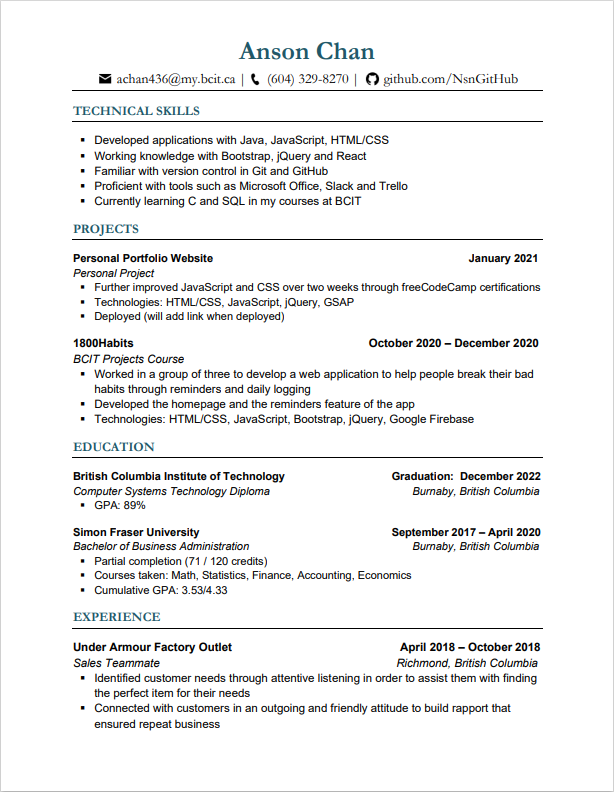
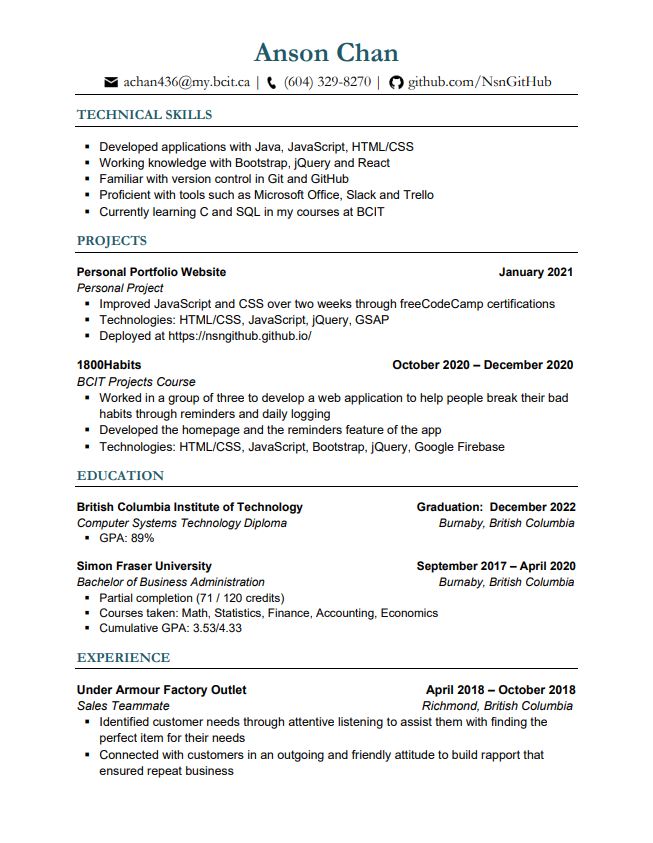
Updated resume, responsive code

Changed region(s): [[0.0928, 0.0303, 0.8974, 0.9394], [0.9902, 0.0, 1.0, 1.0], [0.6189, 0.5758, 0.8974, 0.6364]]

diff --git a/index.html b/index.html
@@ -3,12 +3,16 @@
     <link rel="stylesheet" href="./project.css">
     <script src="https://ajax.googleapis.com/ajax/libs/jquery/3.5.1/jquery.min.js"></script>
     <script src="https://cdnjs.cloudflare.com/ajax/libs/gsap/3.6.0/gsap.min.js"></script>
+    <link rel="preconnect" href="https://fonts.gstatic.com">
+    <link href="https://fonts.googleapis.com/css2?family=Mrs+Saint+Delafield&family=Open+Sans:ital,wght@0,300;0,400;0,600;0,700;0,800;1,300;1,400;1,600;1,700;1,800&display=swap" rel="stylesheet">
+    <script src="https://kit.fontawesome.com/35f807412f.js" crossorigin="anonymous"></script>
     <meta name="viewport" content="width=device-width, initial-scale=1.0">
+    <title>Anson Chan</title>
   </head>
   <body>
-    <div class='navbar'>
+    <div class="navbar">
       <nav>
-        <h4>Anson Chan</h4>
+        <h4 class="logo">Anson Chan</h4>
         <ul>
           <li><a href="#" class="navAbout">About</a></li>
           <li><a href="#" class="navProjects">Projects</a></li>
@@ -35,49 +39,62 @@
             So I decided to pause my education at SFU to pursue a career in software development.
           </p>
         </div>
+        <div class="socials">
+          <ul>
+            <li><a href="https://www.linkedin.com/in/ansonwmchan/" target="_blank"><i class="fab fa-linkedin"></i>ansonwmchan</a></li>
+            <li><a href="https://github.com/NsnGitHub"><i class="fab fa-github"></i>NsnGitHub</a></li>
+            <li><i class="fas fa-envelope-square"></i>chananson1712@gmail.com</li>
+          </ul>
+        </div>
       </div>
 
-      <div class='aboutCover'>
+      <div class="aboutCover">
         ABOUT
       </div>
 
       <div class="resumeInfo">
-        <img src="resume.png" alt="My Resume">
+        <div>
+          <img src="resume.png" alt="My Resume">
+        </div>
+        <button><a href="https://nsngithub.github.io/AnsonChanResume.pdf" target="_blank">View PDF</a></button>
       </div>
 
-      <div class='resumeCover'>
+      <div class="resumeCover">
         RESUME
       </div>
 
       <div class="projectsInfo">
-        <div class="projectsEntry">
-          <h2>Projects I've Worked On</h2>
-          <h4>anson-chan.com</h4>
-          <ul>
-            <li>Created a website to show information about me</li>
-            <li>Designed and developed by me</li>
-            <li>Technologies used: HTML/CSS, JavaScript, jQuery, GSAP</li>
-            <li>GitHub: </li>
-          </ul>
-        </div>
-        <div class="projectsEntry">
-          <h4>1800Reminders</h4>
-          <ul>
-            <li>Worked in a group of three people</li>
-            <li>Created an application to help people break their bad habits</li>
-            <li>Developed the homepage and reminders feature for the app</li>
-            <li>Technologies used: HTML/CSS, JavaScript, Bootstrap, jQuery, Firebase</li>
-            <li>GitHub: </li>
-          </ul>
+        <div>
+          <div class="projectsEntry">
+            <h2>Projects I've Worked On</h2>
+            <h4>nsngithub.github.io</h4>
+            <ul>
+              <li>Created a website to show information about me</li>
+              <li>Designed and developed by me</li>
+              <li>Technologies used: HTML/CSS, JavaScript, jQuery, GSAP</li>
+            </ul>
+          </div>
+          <div class="projectsEntry">
+            <h4>1800Reminders</h4>
+            <ul>
+              <li>Worked in a group of three people</li>
+              <li>Created an application to help people break their bad habits</li>
+              <li>Developed the homepage and reminders feature for the app</li>
+              <li>Technologies used: HTML/CSS, JavaScript, Bootstrap, jQuery, Firebase</li>
+            </ul>
+          </div>
         </div>
       </div>
 
-      <div class='projectsCover'>
+      <div class="projectsCover">
         PROJECTS
       </div>
 
       <div class="resumeInfoMobile">
-        Resume
+        <div>
+          <img src="resume.png" alt="My Resume">
+        </div>
+        <button><a href="https://nsngithub.github.io/AnsonChanResume.pdf" target="_blank">View PDF</a></button>
       </div>
 
   </div>

diff --git a/project.css b/project.css
@@ -1,14 +1,20 @@
 body {
     margin: 0;
-    font-family: -apple-system, BlinkMacSystemFont, 'Segoe UI', 'Roboto', 'Oxygen',
-        'Ubuntu', 'Cantarell', 'Fira Sans', 'Droid Sans', 'Helvetica Neue',
-        sans-serif;
+    font-family: "Open Sans", sans-serif;
     -webkit-font-smoothing: antialiased;
     -moz-osx-font-smoothing: grayscale;
     box-sizing: border-box;
     background-image: url("aditya-chinchure-2yN10KHNTzM-unsplash.jpg");
     background-size: 100%;
 
+    min-height: 100vh;
+
+}
+
+.logo {
+    font-family: "Mrs Saint Delafield", cursive;
+    font-size: 2rem;
+    transform: translateY(5px);
 }
 
 .aboutInfo {
@@ -23,17 +29,42 @@ body {
 }
 
 .aboutInfoEntry {
-    font-size: 1.25rem;
+    font-size: 1.2rem;
     margin-left: 3rem;
     margin-right: 3rem;
     text-align: justify;
 }
 
 .aboutInfoEntry h4{
-    font-size: 3.5rem;
+    font-size: 3.2rem;
     text-align: center;
     margin-top: 0.5rem;
     margin-bottom: 1rem;
+}
+
+.socials {
+    margin: 0px;
+}
+.socials ul {
+    font-size: 1.1rem;
+    list-style: none;
+    display: flex;
+    justify-content: space-between;
+    transform: translateX(-1rem);
+}
+
+.socials li {
+    margin-right: 1rem;
+}
+
+.socials i {
+    margin-left: 5px;
+    margin-right: 5px;
+}
+
+.socials a {
+    text-decoration: none;
+    color: white;
 }
 
 .aboutCover {
@@ -59,6 +90,13 @@ body {
     font-size: 8rem;
 }
 
+.projectsContainer {
+    display: flex;
+    flex-direction: column;
+    justify-content: space-between;
+    align-items: center;
+}
+
 .projectsCover {
     position: fixed;
     width: 50%;
@@ -82,6 +120,11 @@ body {
     font-size: 8rem;
     display: inline-grid;
     place-items: center;
+}
+
+img {
+    width: 100%;
+    height: auto;
 }
 
 .resumeInfoMobile {
@@ -136,13 +179,12 @@ nav ul {
     width: 100%;
     display: inline-grid;
     place-items: center;
-    font-size: 1.25rem;
+    font-size: 1.2rem;
 }
 
 .projectsEntry h2 {
-    margin-top: 1rem;
     margin-bottom: 0rem;
-    font-size: 3.5rem;
+    font-size: 3.2rem;
 }
 
 .projectsEntry h4 {
@@ -157,7 +199,21 @@ nav ul {
     padding: 0px;
 }
 
-@media only screen and (max-width: 3000px) {
+button {
+    width: 10rem;
+    height: 4rem;
+    background-color: mintcream;
+    border-radius: 10px;
+    border-color:#3a8f4e;
+}
+
+button a {
+    color: #3a8f4e;
+    text-decoration: none;
+    font-size: 1.25rem;
+}
+
+@media only screen and (max-width: 10000px) {
     .resumeInfoMobile {
         display: none;
     }
@@ -165,15 +221,25 @@ nav ul {
 
 @media only screen and (max-width: 1325px) {
     html {
-        font-size: 12px;
+        font-size: 11px;
     }
 
     .resumeInfoMobile {
         display: none;
     }
+
+    .resumeInfo img {
+        width: 50vw;
+        height: auto;
+    }
+
 }
 
 @media only screen and (max-width: 1000px) {
+    html {
+        font-size: 12px;
+    }
+
     .aboutCover {
         display: none;
     }
@@ -188,12 +254,10 @@ nav ul {
 
     .aboutInfo {
         width: 100%;
-        float: none;
     }
 
     .projectsInfo {
         width: 100%;
-        float: none;
     }
 
     .resumeInfo {
@@ -203,12 +267,16 @@ nav ul {
     }
     .resumeInfoMobile {
         display: inline-grid;
+        height: auto;
+    }
+    button {
+        margin-top: 1rem;
     }
 }
 
 @media only screen and (max-width: 650px) {
     html {
-        font-size: 10px;
+        font-size: 11px;
     }
 
     nav ul {
@@ -225,7 +293,16 @@ nav ul {
 
 }
 
-@media only screen and (max-width: 475px) {
+@media only screen and (max-width: 500px) {
+    html {
+        font-size: 10px;
+    }
+    .projectsEntry h2 {
+        font-size: 3rem;
+    }
+}
+
+@media only screen and (max-width: 400px) {
     html {
         font-size: 8px;
         min-width: 350px;
